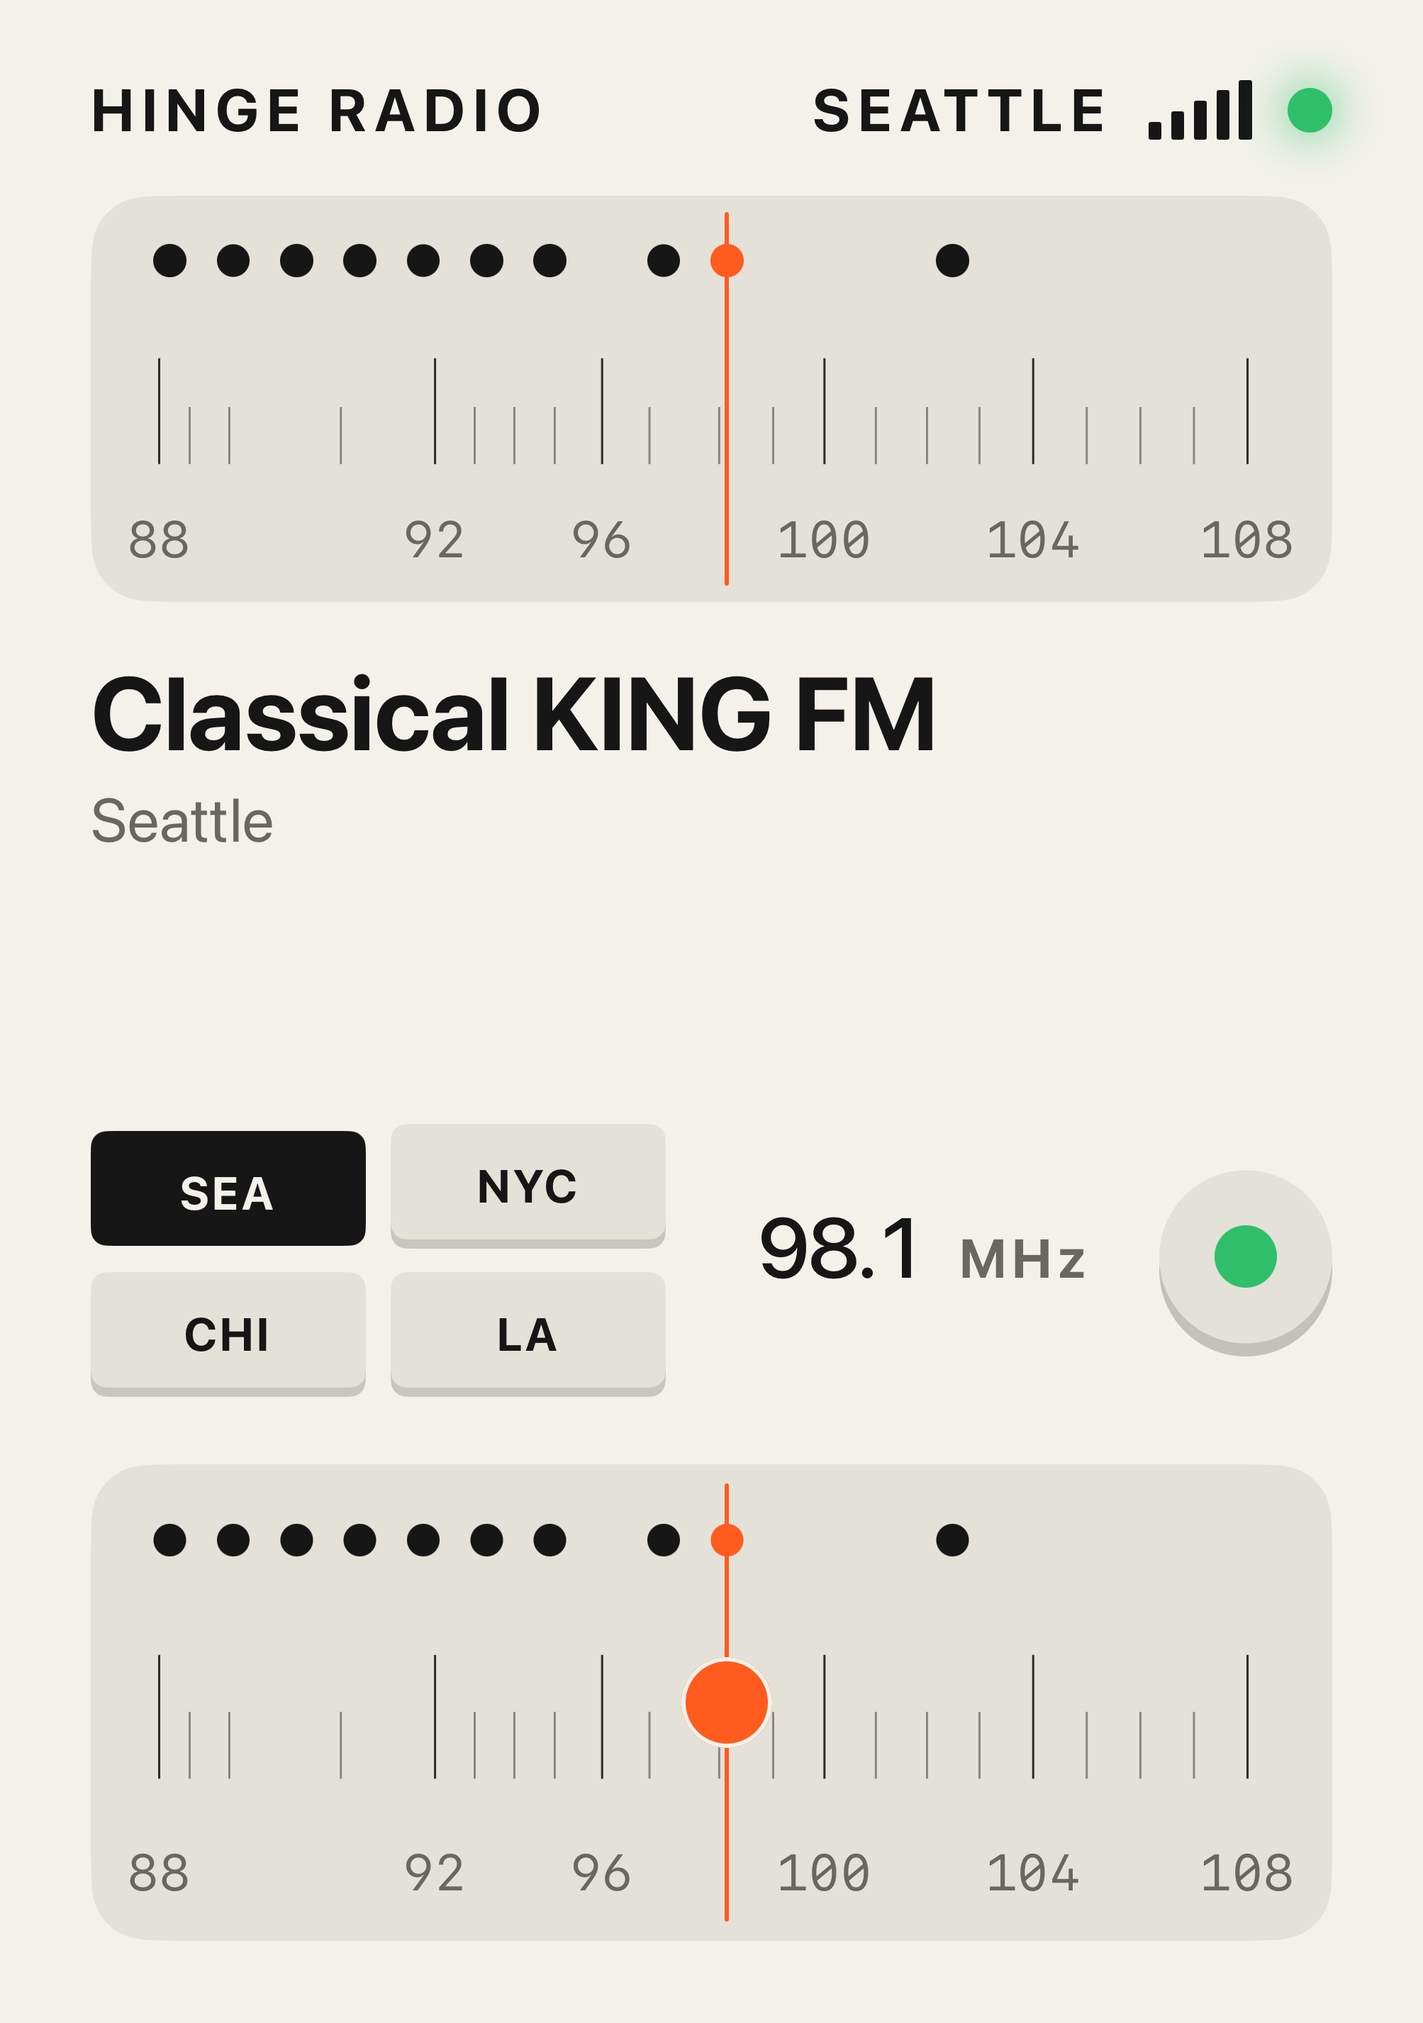
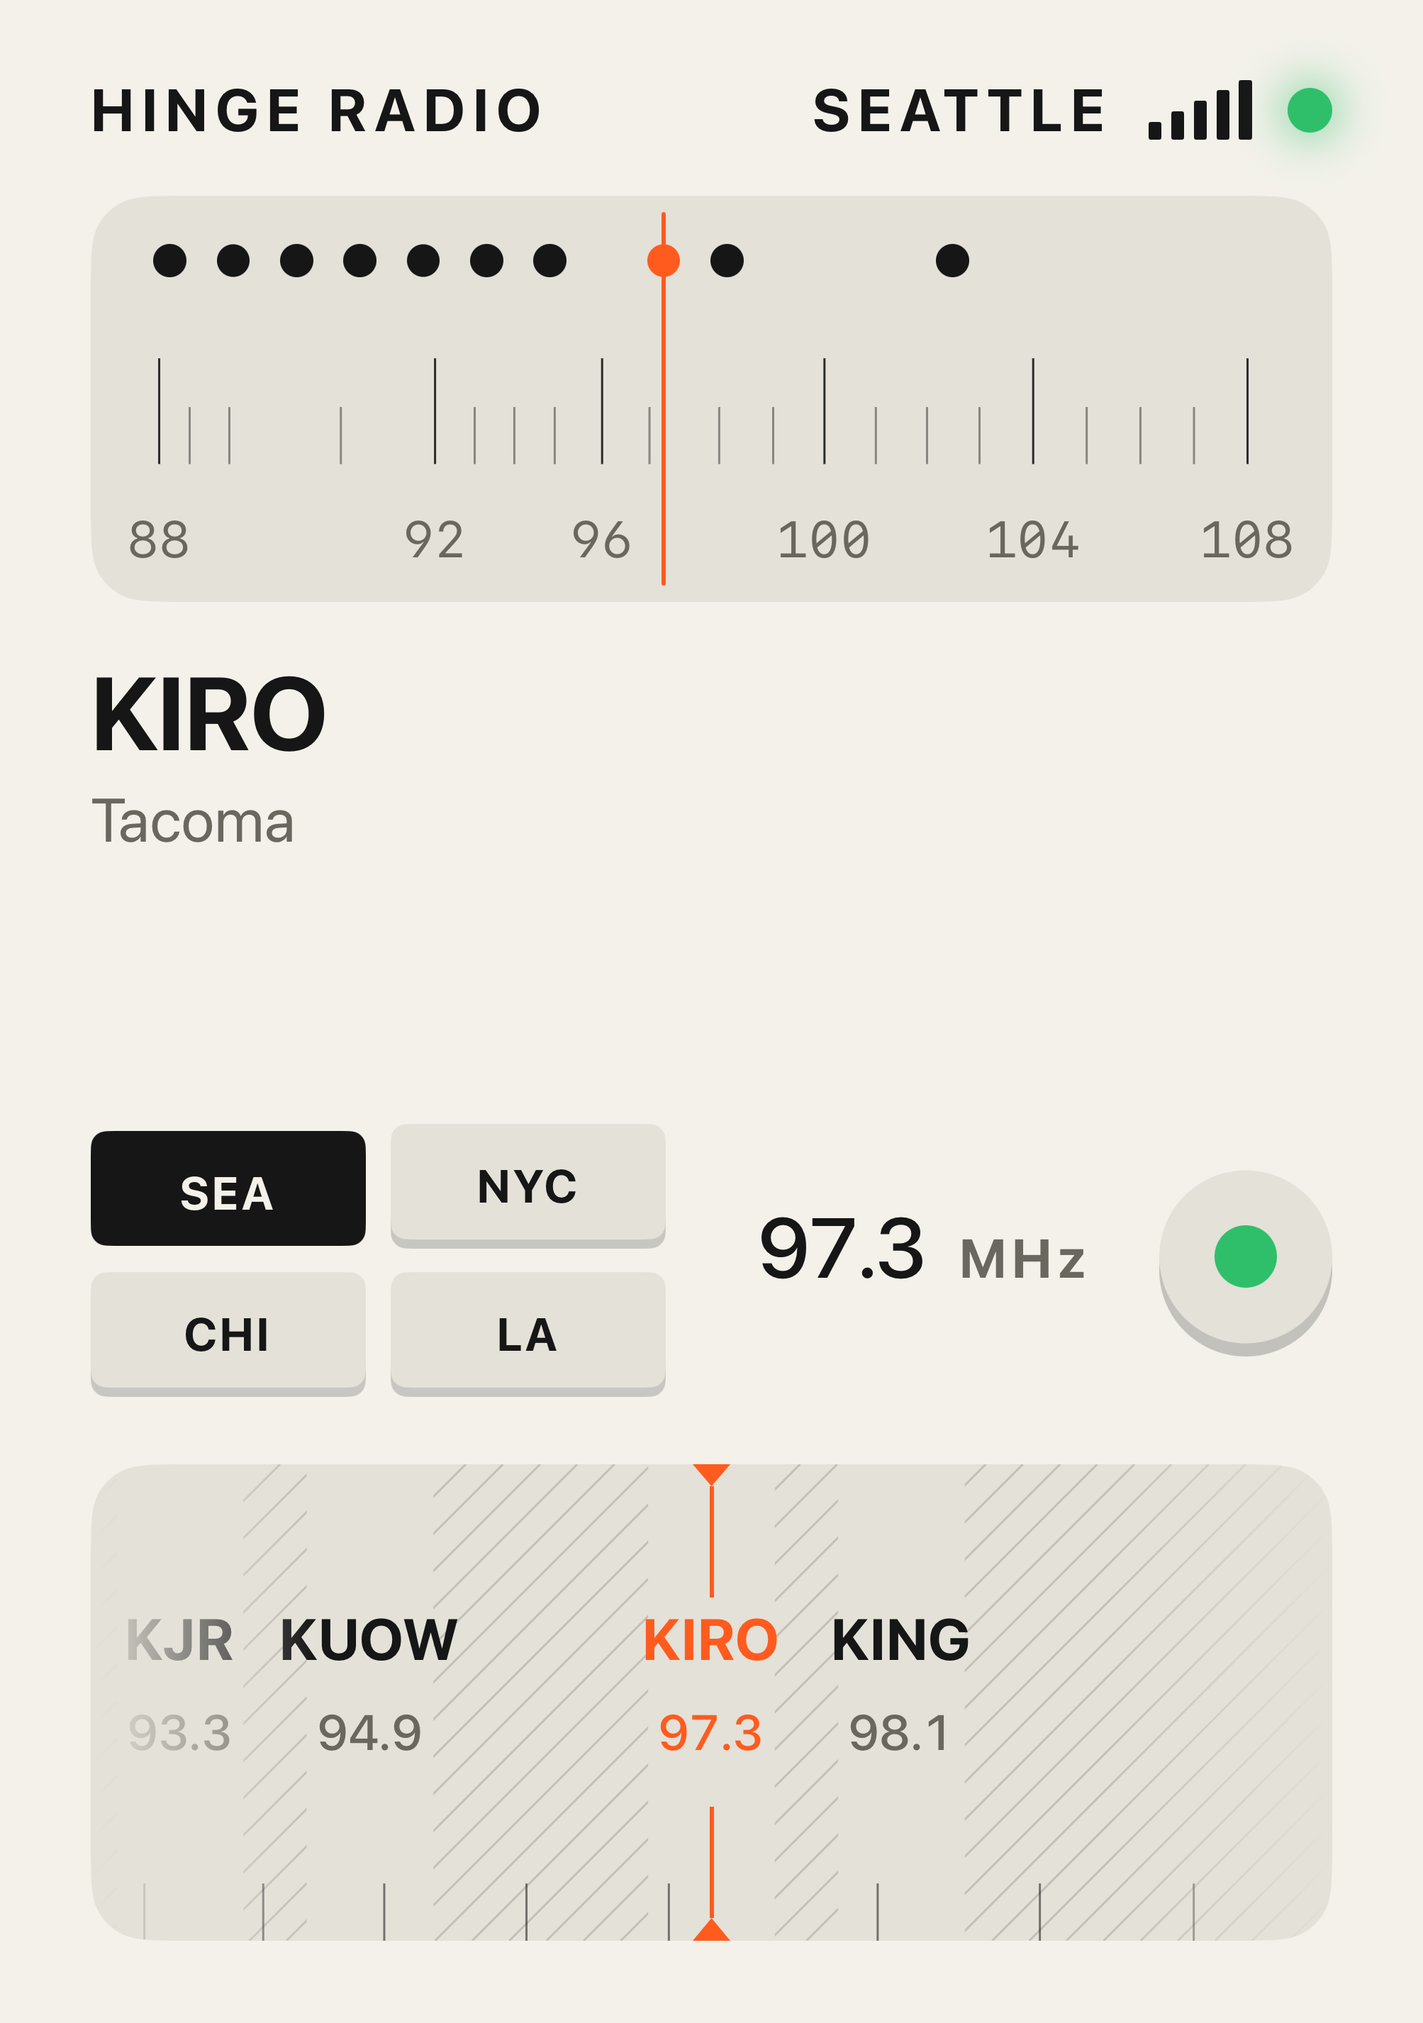
feat: sliding tape on the lower half replaces the tuning strip

diff --git a/App/Views/TapeView.swift b/App/Views/TapeView.swift
@@ -1,0 +1,186 @@
+import SwiftUI
+import RadioCore
+
+/// The dial magnified three times, sliding under a fixed pointer. Each station shows its call sign
+/// and frequency; hatching marks the static between stations. Drag it, flick it, or tap a station.
+struct TapeView: View {
+    let model: RadioModel
+    let em: CGFloat
+
+    /// The dial position under the pointer when the current touch began; nil between touches.
+    @State private var dragStart: Double?
+
+    var body: some View {
+        let inset = 0.7 * em
+        GeometryReader { proxy in
+            // The dial's scale spans the view less its inset; the tape is three times that.
+            let tapeWidth = 3 * max(proxy.size.width - 2 * inset, 0)
+            ZStack {
+                tape(size: proxy.size, tapeWidth: tapeWidth)
+                    .mask(fade)
+                pointer(height: proxy.size.height)
+            }
+            .contentShape(Rectangle())
+            .gesture(drag(width: proxy.size.width, tapeWidth: tapeWidth))
+        }
+        .frame(minHeight: max(60, 2.6 * em), maxHeight: .infinity)
+        .background(Face.shade, in: RoundedRectangle(cornerRadius: 0.7 * em))
+        .clipShape(RoundedRectangle(cornerRadius: 0.7 * em))
+        .opacity(model.radio.powerOn ? 1 : 0.35)
+        .accessibilityElement()
+        .accessibilityLabel("Tuning")
+        .accessibilityValue(String(format: "%.1f megahertz", model.radio.tuning.frequency))
+    }
+
+    // MARK: - Drawing
+
+    private func tape(size: CGSize, tapeWidth: CGFloat) -> some View {
+        let scale = model.radio.scale
+        let needle = model.radio.tuning.needle
+        let config = DialConfig()
+        let zoneHalf = config.lockWidth / 2 / (config.maxAngle - config.minAngle) * tapeWidth
+        let centre = size.width / 2
+        let height = size.height
+        let x = { (q: Double) in centre + (q - needle) * tapeWidth }
+        let underPointer = model.radio.powerOn ? model.radio.tuning.candidate?.callSign : nil
+        let callSize = 0.8 * em
+        let frequencySize = 0.6 * em
+        return Canvas { context, _ in
+            // Hatching across the whole tape, with each station's zone left clear.
+            var gaps = Path(CGRect(x: x(0), y: 0, width: x(1) - x(0), height: height))
+            for mark in scale.marks {
+                gaps = gaps.subtracting(Path(CGRect(x: x(mark.position) - zoneHalf, y: 0,
+                                                    width: 2 * zoneHalf, height: height)))
+            }
+            var hatch = Path()
+            let spacing = 0.45 * em
+            var start = x(0) - height
+            while start < x(1) {
+                hatch.move(to: CGPoint(x: start, y: height))
+                hatch.addLine(to: CGPoint(x: start + height, y: 0))
+                start += spacing
+            }
+            context.drawLayer { layer in
+                layer.clip(to: gaps)
+                layer.stroke(hatch, with: .color(Face.ink.opacity(0.16)), lineWidth: 1)
+            }
+
+            // A short tick at each whole MHz along the bottom edge.
+            for mhz in 88...108 {
+                let tickX = x(scale.position(forFrequency: Double(mhz)))
+                let tickHeight = height * 0.12
+                context.fill(Path(CGRect(x: tickX - 0.5, y: height - tickHeight, width: 1, height: tickHeight)),
+                             with: .color(Face.ink.opacity(0.55)))
+            }
+
+            // Each station: call sign over its frequency, centred on its mark. All call signs share
+            // one size, the largest at which no two neighbours run together.
+            let marks = scale.marks
+            let widths = marks.map {
+                context.resolve(Self.callText($0.station.callSign, size: callSize, dead: false, colour: Face.ink))
+                    .measure(in: size).width
+            }
+            var fit: CGFloat = 1
+            for i in marks.indices.dropFirst() {
+                let room = CGFloat(marks[i].position - marks[i - 1].position) * tapeWidth - 0.4 * em
+                let need = (widths[i] + widths[i - 1]) / 2
+                if need > 0 { fit = min(fit, max(room, 0) / need) }
+            }
+            for mark in marks {
+                let markX = x(mark.position)
+                guard markX > -3 * em, markX < size.width + 3 * em else { continue }
+                let station = mark.station
+                let dead = model.radio.dead.contains(station.callSign)
+                let current = station.callSign == underPointer
+                let call = context.resolve(Self.callText(station.callSign, size: callSize * fit, dead: dead,
+                                                         colour: current ? Face.needle : Face.ink))
+                let frequency = context.resolve(
+                    Text(String(format: "%.1f", station.frequency))
+                        .font(.system(size: frequencySize, weight: .medium))
+                        .monospacedDigit()
+                        .foregroundStyle(current ? Face.needle : Face.muted))
+                context.opacity = dead ? 0.35 : 1
+                context.draw(call, at: CGPoint(x: markX, y: height * 0.44), anchor: .bottom)
+                context.draw(frequency, at: CGPoint(x: markX, y: height * 0.50), anchor: .top)
+                context.opacity = 1
+            }
+        }
+        .frame(width: size.width, height: height)
+        .allowsHitTesting(false)
+    }
+
+    /// The call sign in bold, without its "-FM" suffix, which says nothing on an FM tape.
+    private static func callText(_ callSign: String, size: CGFloat, dead: Bool, colour: Color) -> Text {
+        let short = callSign.hasSuffix("-FM") ? String(callSign.dropLast(3)) : callSign
+        return Text(short)
+            .font(.system(size: size, weight: .bold))
+            .strikethrough(dead)
+            .foregroundStyle(colour)
+    }
+
+    /// Fixed in the centre, over the tape: a notched line from each edge, broken where the
+    /// labels sit so the station under it stays readable.
+    private func pointer(height: CGFloat) -> some View {
+        let notch = 0.45 * em
+        return VStack(spacing: 0) {
+            Triangle().fill(Face.needle).frame(width: notch, height: 0.6 * notch)
+            Rectangle().fill(Face.needle).frame(width: 2, height: max(0, 0.28 * height - 0.6 * notch))
+            Spacer(minLength: 0)
+            Rectangle().fill(Face.needle).frame(width: 2, height: max(0, 0.28 * height - 0.6 * notch))
+            Triangle().fill(Face.needle).frame(width: notch, height: 0.6 * notch)
+                .rotationEffect(.degrees(180))
+        }
+        .frame(height: height)
+        .allowsHitTesting(false)
+    }
+
+    /// The tape fades out toward both edges.
+    private var fade: some View {
+        LinearGradient(stops: [.init(color: .clear, location: 0),
+                               .init(color: .black, location: 0.18),
+                               .init(color: .black, location: 0.82),
+                               .init(color: .clear, location: 1)],
+                       startPoint: .leading, endPoint: .trailing)
+    }
+
+    // MARK: - Touch
+
+    /// Drag to slide the tape (left moves up the band); a fast release flicks on to a station;
+    /// a touch that barely moves is a tap and glides to the station nearest it.
+    private func drag(width: CGFloat, tapeWidth: CGFloat) -> some Gesture {
+        DragGesture(minimumDistance: 0)
+            .onChanged { drag in
+                guard tapeWidth > 0 else { return }
+                let start = dragStart ?? model.position
+                if dragStart == nil { dragStart = start }
+                model.tune(toPosition: start - drag.translation.width / tapeWidth)
+            }
+            .onEnded { drag in
+                defer { dragStart = nil }
+                guard tapeWidth > 0, let start = dragStart else { return }
+                let marks = model.radio.scale.marks.map(\.position)
+                let target: Double
+                if hypot(drag.translation.width, drag.translation.height) < 6 {
+                    let tapped = model.radio.tuning.needle + (drag.location.x - width / 2) / tapeWidth
+                    guard let nearest = marks.min(by: { abs($0 - tapped) < abs($1 - tapped) }) else { return }
+                    target = nearest
+                } else {
+                    target = flickTarget(from: model.position,
+                                         predicted: start - drag.predictedEndTranslation.width / tapeWidth,
+                                         marks: marks)
+                }
+                if target != model.position { model.glide(toPosition: target) }
+            }
+    }
+}
+
+private struct Triangle: Shape {
+    func path(in rect: CGRect) -> Path {
+        var path = Path()
+        path.move(to: CGPoint(x: rect.minX, y: rect.minY))
+        path.addLine(to: CGPoint(x: rect.maxX, y: rect.minY))
+        path.addLine(to: CGPoint(x: rect.midX, y: rect.maxY))
+        path.closeSubpath()
+        return path
+    }
+}

diff --git a/App/RadioModel.swift b/App/RadioModel.swift
@@ -23,8 +23,7 @@ import UIKit
 
     @ObservationIgnored private var hingeAngle: Double?
     @ObservationIgnored private var hingeStatus: HingeStatus?
-    /// The dial position (0...1) last tuned to, for the log lines.
-    @ObservationIgnored private var position = 0.5
+    @ObservationIgnored private var glideTask: Task<Void, Never>?
     @ObservationIgnored private let log = Logger(subsystem: "HingeRadio", category: "dial")
     @ObservationIgnored private let soundLog = Logger(subsystem: "HingeRadio", category: "sound")
     @ObservationIgnored private let player = StationPlayer()
@@ -57,12 +56,33 @@ import UIKit
 
     var display: Display { radio.display(playback: audible) }
     var city: City? { radio.cities.first { $0.id == radio.cityID } }
+    /// The dial position (0...1) last tuned to, before any snap.
+    var position: Double { radio.position }
+
+    /// Tunes at once, stopping any glide: a new touch takes over from it.
     func tune(toPosition position: Double) {
-        guard !position.isNaN else { return }
-        let before = radio.tuning.locked?.callSign
-        self.position = min(1, max(0, position))
-        radio.tune(toPosition: position)
-        logLockChange(from: before)
+        stopGlide()
+        step(toPosition: position)
+    }
+
+    /// Steps the tuning to `target` along an ease-out over 0.35 s, locking and clicking on each
+    /// station it passes. A new touch or a city change stops it where it is.
+    func glide(toPosition target: Double) {
+        guard !target.isNaN else { return }
+        stopGlide()
+        let from = radio.position
+        let to = min(1, max(0, target))
+        glideTask = Task { [weak self] in
+            let clock = ContinuousClock()
+            let start = clock.now
+            while !Task.isCancelled {
+                let t = min(1, (clock.now - start) / .seconds(0.35))
+                let eased = 1 - pow(1 - t, 3)
+                self?.step(toPosition: from + (to - from) * eased)
+                if t >= 1 { break }
+                try? await Task.sleep(for: .milliseconds(16))
+            }
+        }
     }
 
     /// `nil, nil` when the phone has no hinge.
@@ -83,6 +103,7 @@ import UIKit
 
     func selectCity(_ id: String) {
         let before = radio.tuning.locked?.callSign
+        stopGlide()
         if id != radio.cityID { player.stop() }   // the old city's station goes silent at once
         radio.selectCity(id)
         logMarks()
@@ -96,6 +117,17 @@ import UIKit
     func appIsActive(_ active: Bool) { radio.setSuspended(!active) }
 
     // MARK: - Private
+
+    private func step(toPosition position: Double) {
+        let before = radio.tuning.locked?.callSign
+        radio.tune(toPosition: position)
+        logLockChange(from: before)
+    }
+
+    private func stopGlide() {
+        glideTask?.cancel()
+        glideTask = nil
+    }
 
     private func radioChanged(from old: Radio) {
         if radio.isLive, !old.isLive { startAudio() }
@@ -173,7 +205,8 @@ import UIKit
     private func logLockChange(from before: String?) {
         let after = radio.tuning.locked?.callSign
         guard after != before else { return }
-        let line = after.map { String(format: "LOCK %@ %.3f", $0, position) } ?? String(format: "STATIC %.3f", position)
+        let line = after.map { String(format: "LOCK %@ %.3f", $0, radio.position) }
+            ?? String(format: "STATIC %.3f", radio.position)
         log.notice("\(line, privacy: .public)")
     }
 }

diff --git a/Packages/RadioCore/Tests/RadioCoreTests/FlickTests.swift b/Packages/RadioCore/Tests/RadioCoreTests/FlickTests.swift
@@ -1,0 +1,25 @@
+import Testing
+@testable import RadioCore
+
+@Test func slowReleaseStaysPut() {
+    #expect(flickTarget(from: 0.40, predicted: 0.42, marks: [0.2, 0.5, 0.8]) == 0.40)
+}
+
+@Test func flickSettlesOnNearestMarkToPredictedEnd() {
+    #expect(flickTarget(from: 0.20, predicted: 0.55, marks: [0.2, 0.5, 0.8]) == 0.5)
+    #expect(flickTarget(from: 0.80, predicted: 0.30, marks: [0.2, 0.5, 0.8]) == 0.2)
+}
+
+@Test func flickPastTheEndsSettlesOnTheEndStation() {
+    #expect(flickTarget(from: 0.5, predicted: 3.0, marks: [0.2, 0.5, 0.8]) == 0.8)
+    #expect(flickTarget(from: 0.5, predicted: -3.0, marks: [0.2, 0.5, 0.8]) == 0.2)
+}
+
+@Test func flickWithNoMarksClamps() {
+    #expect(flickTarget(from: 0.5, predicted: 3.0, marks: []) == 1)
+    #expect(flickTarget(from: 0.5, predicted: -3.0, marks: []) == 0)
+}
+
+@Test func notANumberStaysPut() {
+    #expect(flickTarget(from: 0.5, predicted: .nan, marks: [0.2]) == 0.5)
+}

diff --git a/App/Views/PlateView.swift b/App/Views/PlateView.swift
@@ -1,7 +1,7 @@
 import SwiftUI
 import RadioCore
 
-/// The base: city keys, frequency readout and power button, with the tuning strip below.
+/// The base: city keys, frequency readout and power button, with the tape below.
 struct PlateView: View {
     let model: RadioModel
     let em: CGFloat
@@ -14,7 +14,7 @@ struct PlateView: View {
                 readout
                     .frame(maxWidth: .infinity)
             }
-            TuningStrip(model: model, em: em)
+            TapeView(model: model, em: em)
         }
         .padding(EdgeInsets(top: 1 * em, leading: 1.1 * em, bottom: 1 * em, trailing: 1.1 * em))
         .foregroundStyle(Face.ink)

diff --git a/Packages/RadioCore/Tests/RadioCoreTests/RadioTests.swift b/Packages/RadioCore/Tests/RadioCoreTests/RadioTests.swift
@@ -175,3 +175,15 @@ private let shut = PoseInput(screen: .outer, landscape: false, angle: 0, status:
     #expect(abs(radio.tuning.strength - 0.1) < 1e-9)
     #expect(radio.display(playback: .playing).bars == 1)
 }
+
+@Test func positionIsTheRawTunedValue() {
+    var radio = Radio(file: file)
+    #expect(radio.position == 0.5)
+    radio.tune(toPosition: 0.5175)                 // snaps the needle, not the position
+    #expect(radio.position == 0.5175)
+    #expect(abs(radio.tuning.needle - 0.5) < 1e-9)
+    radio.tune(toPosition: 2)
+    #expect(radio.position == 1)
+    radio.tune(toPosition: .nan)
+    #expect(radio.position == 1)
+}

diff --git a/Packages/RadioCore/Sources/RadioCore/Flick.swift b/Packages/RadioCore/Sources/RadioCore/Flick.swift
@@ -1,0 +1,10 @@
+/// Where the tape should come to rest after a release.
+/// Returns `position` when the release is slower than `minFlick`; otherwise the mark nearest
+/// `predicted`, or `predicted` clamped to 0...1 when there are no marks.
+public func flickTarget(from position: Double, predicted: Double, marks: [Double], minFlick: Double = 0.03) -> Double {
+    guard !predicted.isNaN, abs(predicted - position) >= minFlick else { return position }
+    guard let nearest = marks.min(by: { abs($0 - predicted) < abs($1 - predicted) }) else {
+        return min(1, max(0, predicted))
+    }
+    return nearest
+}

diff --git a/Packages/RadioCore/Sources/RadioCore/Radio.swift b/Packages/RadioCore/Sources/RadioCore/Radio.swift
@@ -26,11 +26,12 @@ public struct Radio: Sendable {
     public private(set) var isSuspended = false
     public private(set) var tuning: TuningState
     public private(set) var dead: Set<String> = []
+    /// The position (0...1) last tuned to, before any snap.
+    public private(set) var position = 0.5
 
     private let config: DialConfig
     private let poseConfig: PoseConfig
     private var tuner: Tuner
-    private var position = 0.5
 
     public init(file: StationFile, config: DialConfig = DialConfig(), poseConfig: PoseConfig = PoseConfig()) {
         cities = file.cities

diff --git a/App/Views/ScaleFace.swift b/App/Views/ScaleFace.swift
@@ -2,7 +2,7 @@ import SwiftUI
 import RadioCore
 
 /// Ticks, numbers, station dots and the needle, filling its frame with a 0.7 em inset each side.
-/// The one drawing of the scale: the dial glass and the tuning strip both use it.
+/// The dial glass draws the whole band with it; the tape on the lower half draws its own close-up.
 struct ScaleFace: View {
     let model: RadioModel
     let em: CGFloat
